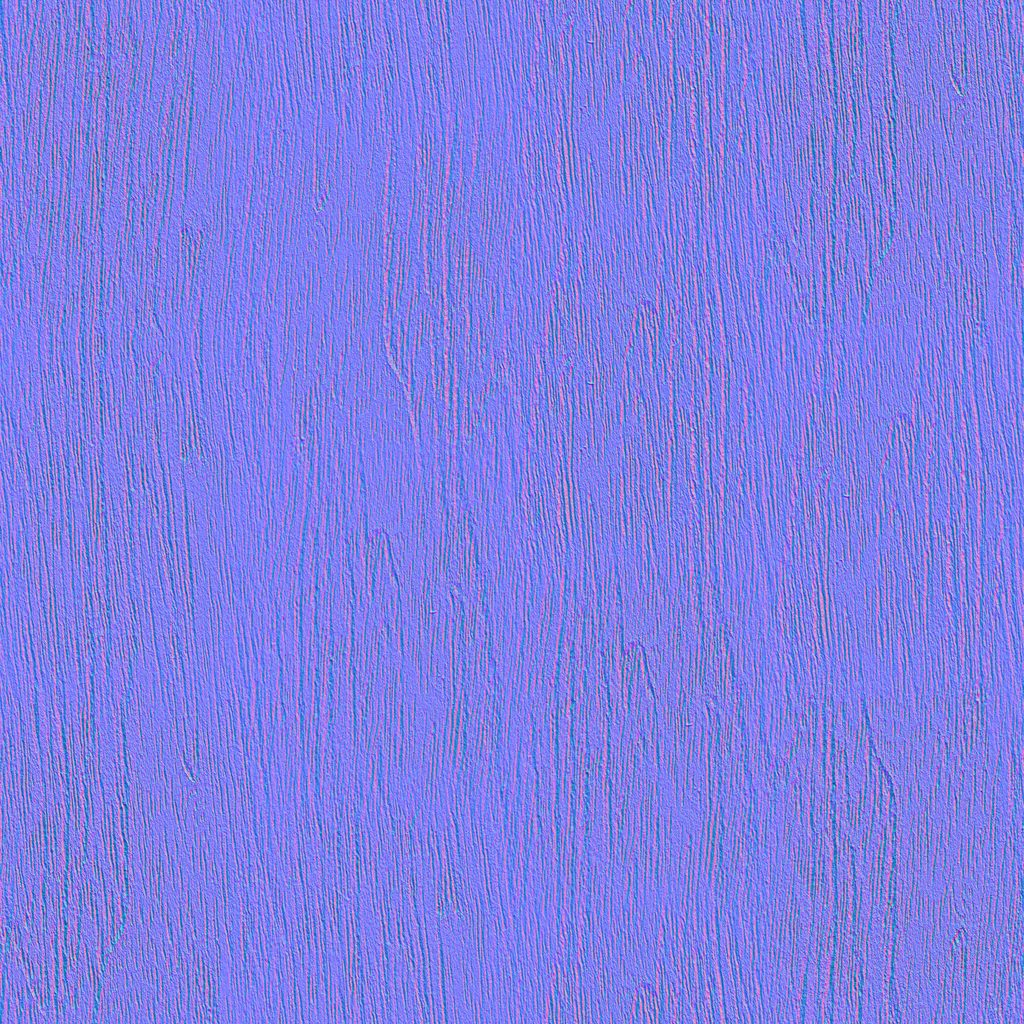
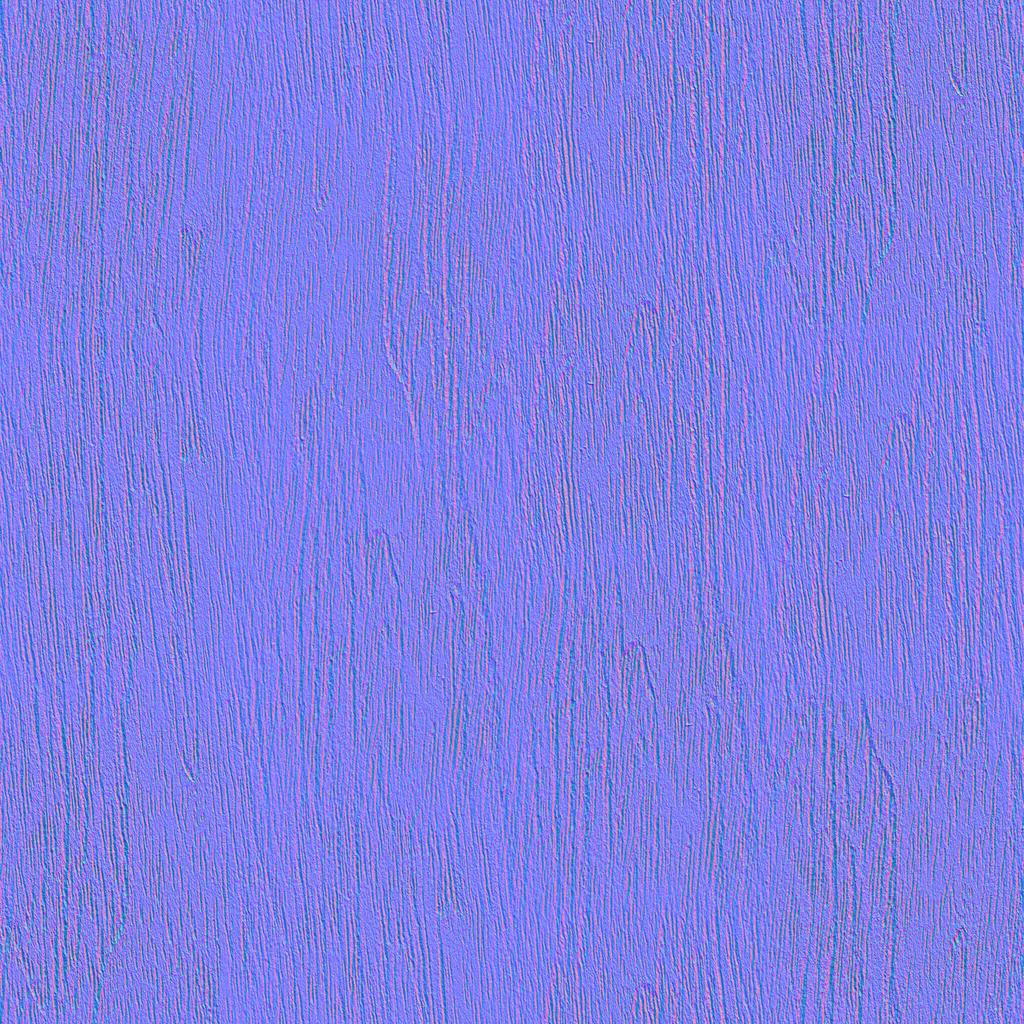
Look pass: share-safe weathering and brighter detail maps (#99)
Identical copies (same mesh, role and base height) now get the same UV offset, paint fade,
weathering and AO, worked out once on the first copy by name. So optimize.py (#97) can still
share their meshes, and the AO casts once per kind of part, not per copy.

Detail maps now have an sRGB mean of 0.88 instead of 0.78, so a status color the console
lerps into a material's factor loses less brightness to the texture. Normal maps are saved
at JPEG quality 75; the seven sets drop from 2.9 MB to 2.5 MB.

Claude-Session: https://claude.ai/code/session_01PsJEnTJvGf1LYa4h754Rcf

Changed region(s): [[0.9062, 0.9375, 0.9375, 0.9688], [0.7812, 0.0625, 0.8125, 0.0938], [0.5938, 0.625, 0.625, 0.6562]]

diff --git a/blender/look.py b/blender/look.py
@@ -13,20 +13,24 @@ and triangle count stays exactly as built.
    M_LAMP, M_BRINE, M_GROUND, M_ROAD, M_WIRE and every material that already carries an
    image (the scenery kit, the ground and road textures) are left alone.
 2. UVs: a box projection in each mesh's own frame, in meters, so a tiling texture keeps the
-   same real-world size on every part. Each object gets its own offset, so 24 pumpjacks do
-   not share one rust pattern.
+   same real-world size on every part, with an offset per kind of part.
 3. Weathering into the color attribute "Col" (glTF COLOR_0, which three.js multiplies into
-   the base color): dust and grime near the ground, a darker horsehead, a little per-object
-   paint fade, and in "full" mode ambient occlusion from ray casts against the whole field.
+   the base color): dust and grime near the ground, a darker horsehead, a little paint fade
+   per kind of part, and in "full" mode ambient occlusion from ray casts against the field.
    Colors only ever darken and stay near gray, so the console's status colors stay clean.
+
+Identical copies (the same mesh, role and base height, like each pumpjack's parts) get the
+same UVs and colors, worked out once on the first copy by name. optimize.py (#97) can then
+still share their meshes, and the AO costs one cast per kind of part, not per copy.
 
 Textures are shared CC0 detail maps (blender/assets/materials, made by make_materials.py):
 each material's own color is the glTF baseColorFactor, and the map adds wear, chips, rust
-spots and grain. With textures=False (build_field.py --no-scenery) no image is attached:
-the field gets the role colors and weathering only.
+spots and grain around a bright mean, so a status color lerped into the factor stays bright.
+With textures=False (build_field.py --no-scenery) no image is attached: the field gets the
+role colors and weathering only.
 
 Modes: "fast" (the default, for uploads through the API) skips ambient occlusion; "full"
-(the committed blender/field.glb) adds it.
+(the committed blender/field.glb) adds it. Run apply() before optimize.run().
 """
 import hashlib
 import math
@@ -42,7 +46,8 @@ from mathutils.bvhtree import BVHTree
 MODES = ("fast", "full")
 HERE = os.path.dirname(os.path.abspath(__file__))
 ASSETS = os.path.join(HERE, "assets")
-DETAIL = (0.78 / 1.055 + 0.055 / 1.055) ** 2.4     # linear mean of every detail map (make_materials.py)
+DETAIL_SRGB = 0.88          # sRGB mean of every detail map (make_materials.DETAIL_MEAN)
+DETAIL = ((DETAIL_SRGB + 0.055) / 1.055) ** 2.4     # the same, linear: each factor is divided by it
 ATTR = "Col"
 
 # Texture sets: folder under blender/assets, file stem, meters per tile, is it a detail map.
@@ -291,7 +296,7 @@ def pieces(me):
     return label, int(label.max()) + 1 if len(label) else 0
 
 
-def weather_colors(obj, dust, ground_z):
+def weather_colors(obj, dust, ground_z, fade):
     """Per-vertex multiplier: dust and grime by height above grade, horsehead, paint fade."""
     co, wp = world_points(obj)
     h = wp[:, 2] - ground_z
@@ -305,8 +310,23 @@ def weather_colors(obj, dust, ground_z):
         label, n = pieces(obj.data)
         ends = np.bincount(label, weights=co[:, 1], minlength=n) / np.maximum(np.bincount(label, minlength=n), 1)
         col[ends[label] < -2.6] *= HORSEHEAD
-    col *= 0.93 + 0.07 * seed(obj.name)
+    col *= 0.93 + 0.07 * fade
     return col
+
+
+def geometry_key(obj, role):
+    """Objects with the same mesh, role and base height get the same UVs and colors, so
+    optimize.py (#97) can still share their mesh: 24 pumpjacks store each part once."""
+    me = obj.data
+    h = hashlib.sha1(role.encode())
+    for coll, prop, width, dtype in ((me.vertices, "co", 3, np.float32), (me.loops, "vertex_index", 1, np.int32),
+                                     (me.polygons, "loop_total", 1, np.int32)):
+        arr = np.empty(len(coll) * width, dtype=dtype)
+        coll.foreach_get(prop, arr)
+        h.update(arr.tobytes())
+    h.update(repr(tuple(round(s, 4) for s in obj.matrix_world.to_scale())).encode())
+    h.update(str(round(obj.matrix_world.translation.z, 2)).encode())
+    return h.hexdigest()
 
 
 def ambient_occlusion(targets, bvh):
@@ -318,7 +338,7 @@ def ambient_occlusion(targets, bvh):
         a = i * golden
         dirs.append((r * math.cos(a), r * math.sin(a), math.sqrt(max(0.0, 1 - r * r))))
     out = {}
-    for obj, wp in targets:
+    for key, obj, wp in targets:
         me = obj.data
         nrm = np.empty(len(me.vertices) * 3, dtype=np.float32)
         me.vertices.foreach_get("normal", nrm)
@@ -335,7 +355,7 @@ def ambient_occlusion(targets, bvh):
                 if bvh.ray_cast(origin, t * dx + b * dy + n * dz, AO_DIST)[0] is not None:
                     hits += 1
             ao[i] = max(AO_FLOOR, 1.0 - AO_STRENGTH * hits / AO_RAYS)
-        out[obj.name] = ao
+        out[key] = ao
     return out
 
 
@@ -391,18 +411,22 @@ def apply(scene, mode="fast", textures=True):
         styled.append((obj, role))
     t_roles = time.time()
 
-    for obj, role in styled:
-        tex = ROLES[role][0]
-        if tex and textures:
-            s = seed(obj.name)
-            box_uvs(obj, SETS[tex][2], (s, seed(obj.name + "v")))
-        else:
-            while obj.data.uv_layers:        # no texture reads them: keep the glb small
-                obj.data.uv_layers.remove(obj.data.uv_layers[0])
+    # one representative per geometry key: it gets the UVs and colors, its copies get the same
+    groups = {}
+    for obj, role in sorted(styled, key=lambda s: s[0].name):
+        groups.setdefault(geometry_key(obj, role), []).append((obj, role))
+    for key, members in groups.items():
+        tex = ROLES[members[0][1]][0]
+        for obj, _ in members:
+            if tex and textures:
+                box_uvs(obj, SETS[tex][2], (seed(key), seed(key + "v")))
+            else:
+                while obj.data.uv_layers:    # no texture reads them: keep the glb small
+                    obj.data.uv_layers.remove(obj.data.uv_layers[0])
     t_uv = time.time()
 
     ground_z = -0.2                     # field_build.ground_height's mean
-    colors = {obj.name: weather_colors(obj, ROLES[role][5], ground_z) for obj, role in styled}
+    colors = {key: weather_colors(m[0][0], ROLES[m[0][1]][5], ground_z, seed(key + "f")) for key, m in groups.items()}
     ao_s = 0.0
     if mode == "full":
         t = time.time()
@@ -411,18 +435,20 @@ def apply(scene, mode="fast", textures=True):
                  and not o.name.startswith("SCENERY_")]
         bvh = field_bvh(solid)
         targets = []
-        for obj, _ in styled:
+        for key, members in groups.items():
+            obj = members[0][0]
             wp = world_points(obj)[1]
             if not obj.name.startswith("SCENERY_") and len(wp) and np.ptp(wp, axis=0).max() <= AO_MAX_SIZE:
-                targets.append((obj, wp))
-        for name, ao in ambient_occlusion(targets, bvh).items():
-            colors[name] = colors[name] * ao[:, None]
+                targets.append((key, obj, wp))
+        for key, ao in ambient_occlusion(targets, bvh).items():
+            colors[key] = colors[key] * ao[:, None]
         ao_s = time.time() - t
-    for obj, _ in styled:
-        set_colors(obj, colors[obj.name])
+    for key, members in groups.items():
+        for obj, _ in members:
+            set_colors(obj, colors[key])
     t_end = time.time()
     return {"mode": mode, "textures": bool(textures), "materials": dict(sorted(counts.items())),
-            "styled": len(styled),
+            "styled": len(styled), "looks": len(groups),
             "seconds": {"roles": round(t_roles - t0, 2), "uvs": round(t_uv - t_roles, 2),
                         "weather": round(t_end - t_uv - ao_s, 2), "ao": round(ao_s, 2),
                         "total": round(t_end - t0, 2)}}

diff --git a/blender/assets/materials/make_materials.py b/blender/assets/materials/make_materials.py
@@ -18,8 +18,9 @@ import bpy
 import numpy as np
 
 OUT = os.path.dirname(os.path.abspath(__file__))
-DETAIL_MEAN = 0.78          # sRGB mean of every detail map; look.py divides by its linear value
-QUALITY = 82
+DETAIL_MEAN = 0.88          # sRGB mean of every detail map (look.DETAIL_SRGB). Bright, so a status
+                            # color the console lerps into a material's factor stays bright
+QUALITY, NORMAL_QUALITY = 82, 75
 # name: (source maps, contrast, saturation kept, flip u/v so the grain runs along v). A source
 # is an ambientCG asset ID in SRC, or a path under blender/assets for the kit's own maps.
 SETS = {
@@ -41,13 +42,13 @@ def load(path):
     return px
 
 
-def save(px, path):
+def save(px, path, quality=QUALITY):
     h, w = px.shape[:2]
     img = bpy.data.images.new(os.path.basename(path), w, h)
     img.pixels = np.clip(px, 0.0, 1.0).ravel()
     img.filepath_raw = path
     img.file_format = "JPEG"
-    img.save(filepath=path, quality=QUALITY)
+    img.save(filepath=path, quality=quality)
     bpy.data.images.remove(img)
     print(f"wrote {os.path.relpath(path, OUT)} ({os.path.getsize(path) // 1024} KB)")
 
@@ -88,7 +89,7 @@ def main():
         if flip:
             color, normal = flip_uv(color), flip_uv(normal, normal=True)
         save(color, os.path.join(folder, f"{name}_color.jpg"))
-        save(normal, os.path.join(folder, f"{name}_normal_gl.jpg"))
+        save(normal, os.path.join(folder, f"{name}_normal_gl.jpg"), NORMAL_QUALITY)
 
 
 if __name__ == "__main__":
